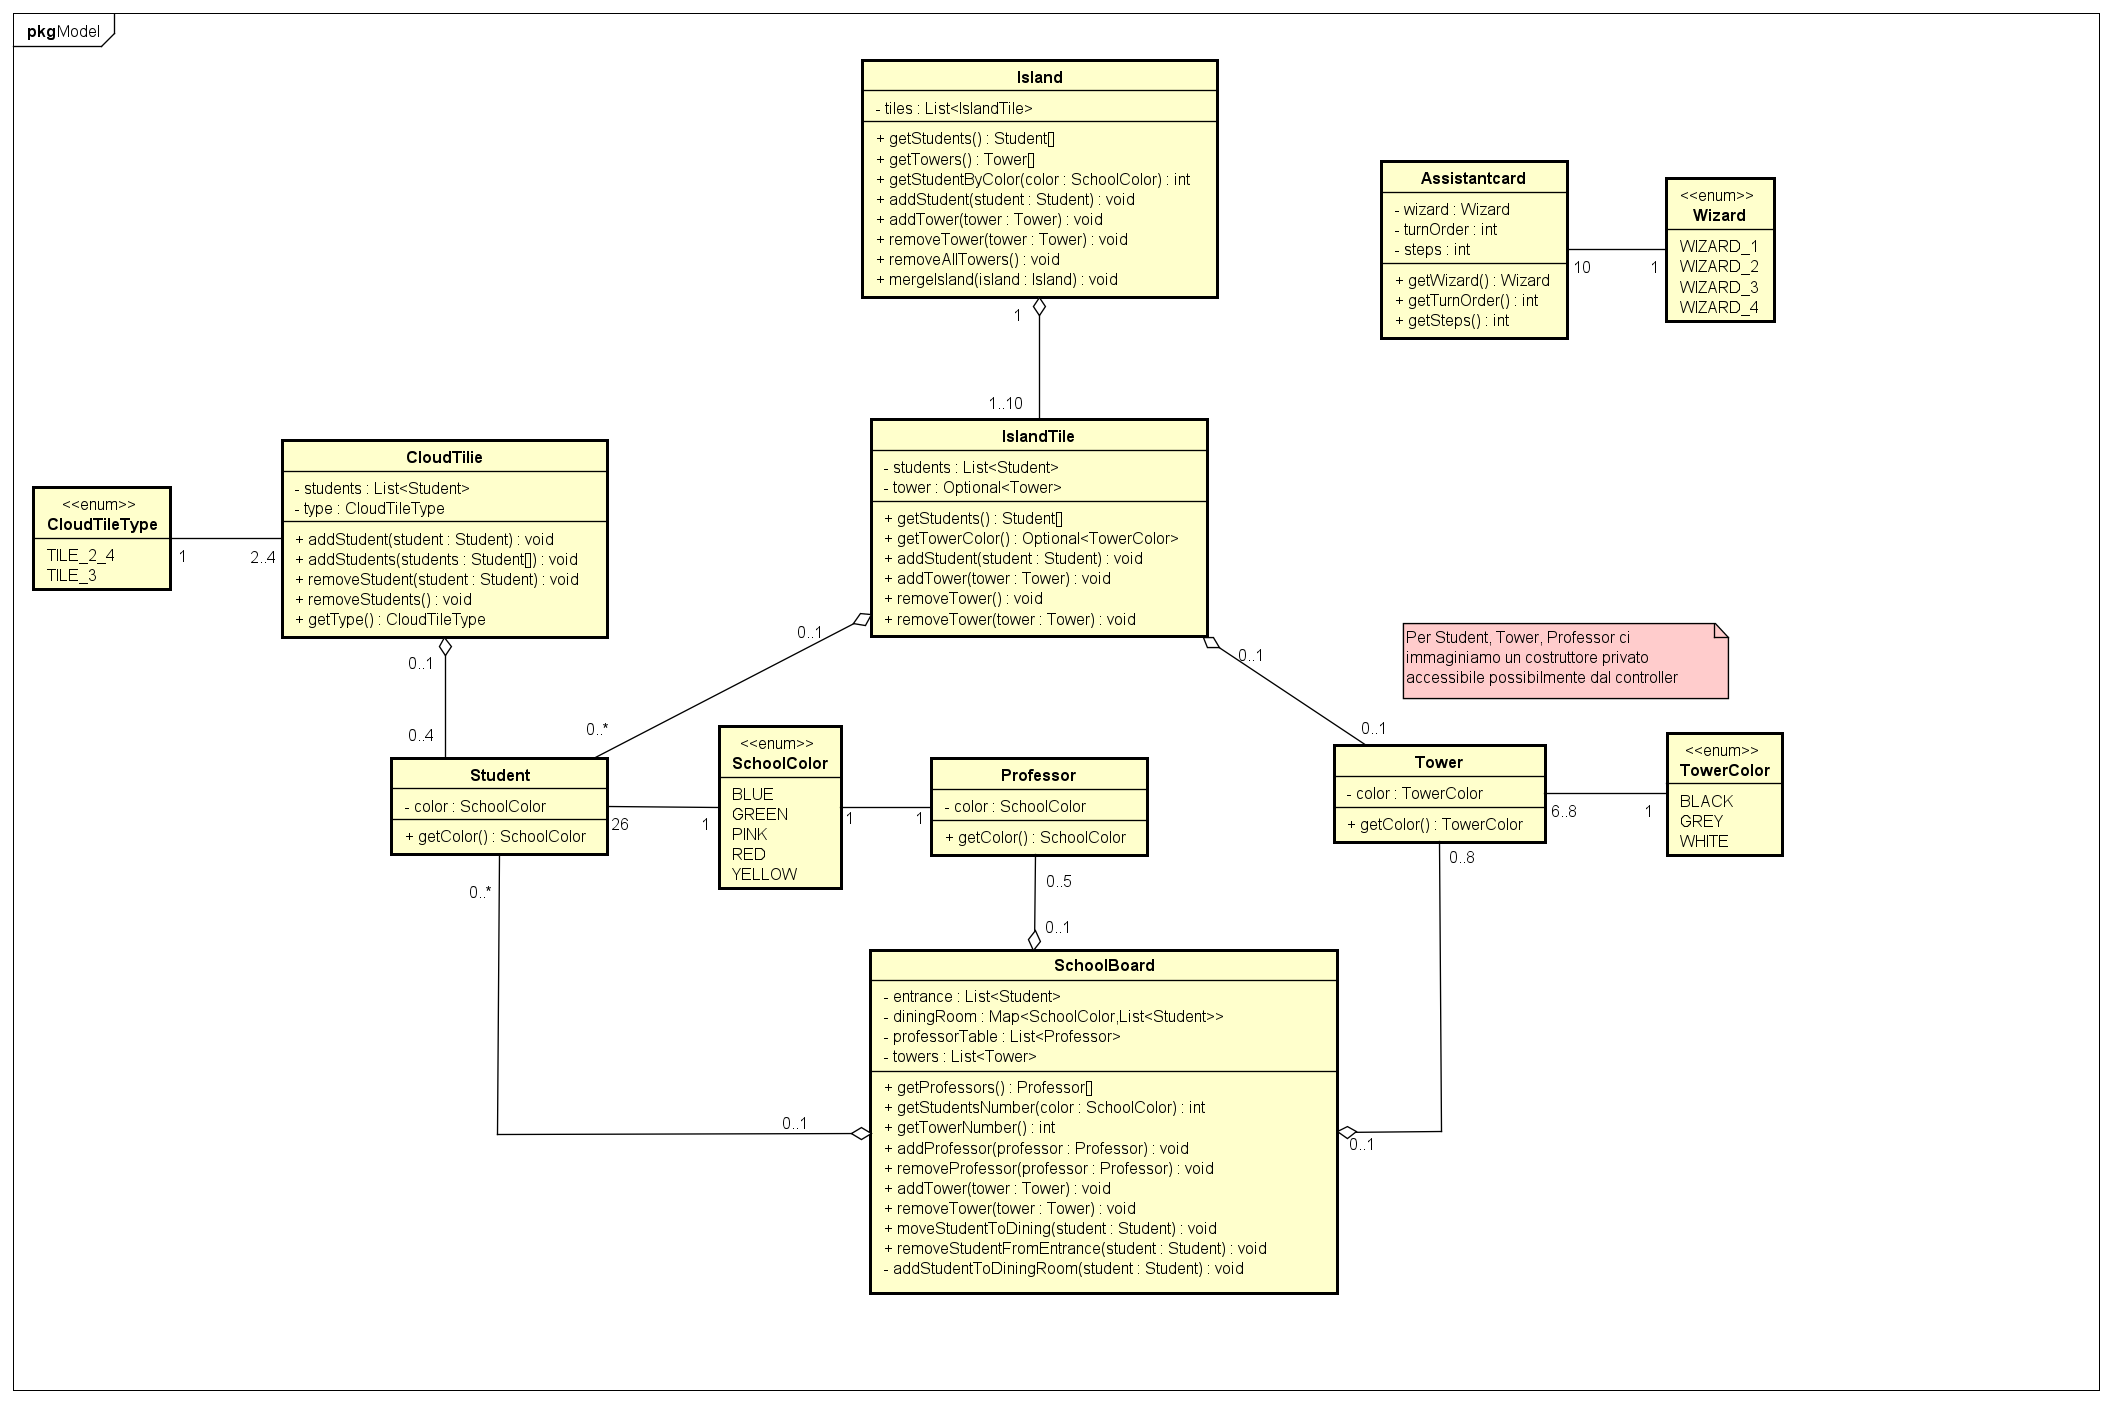
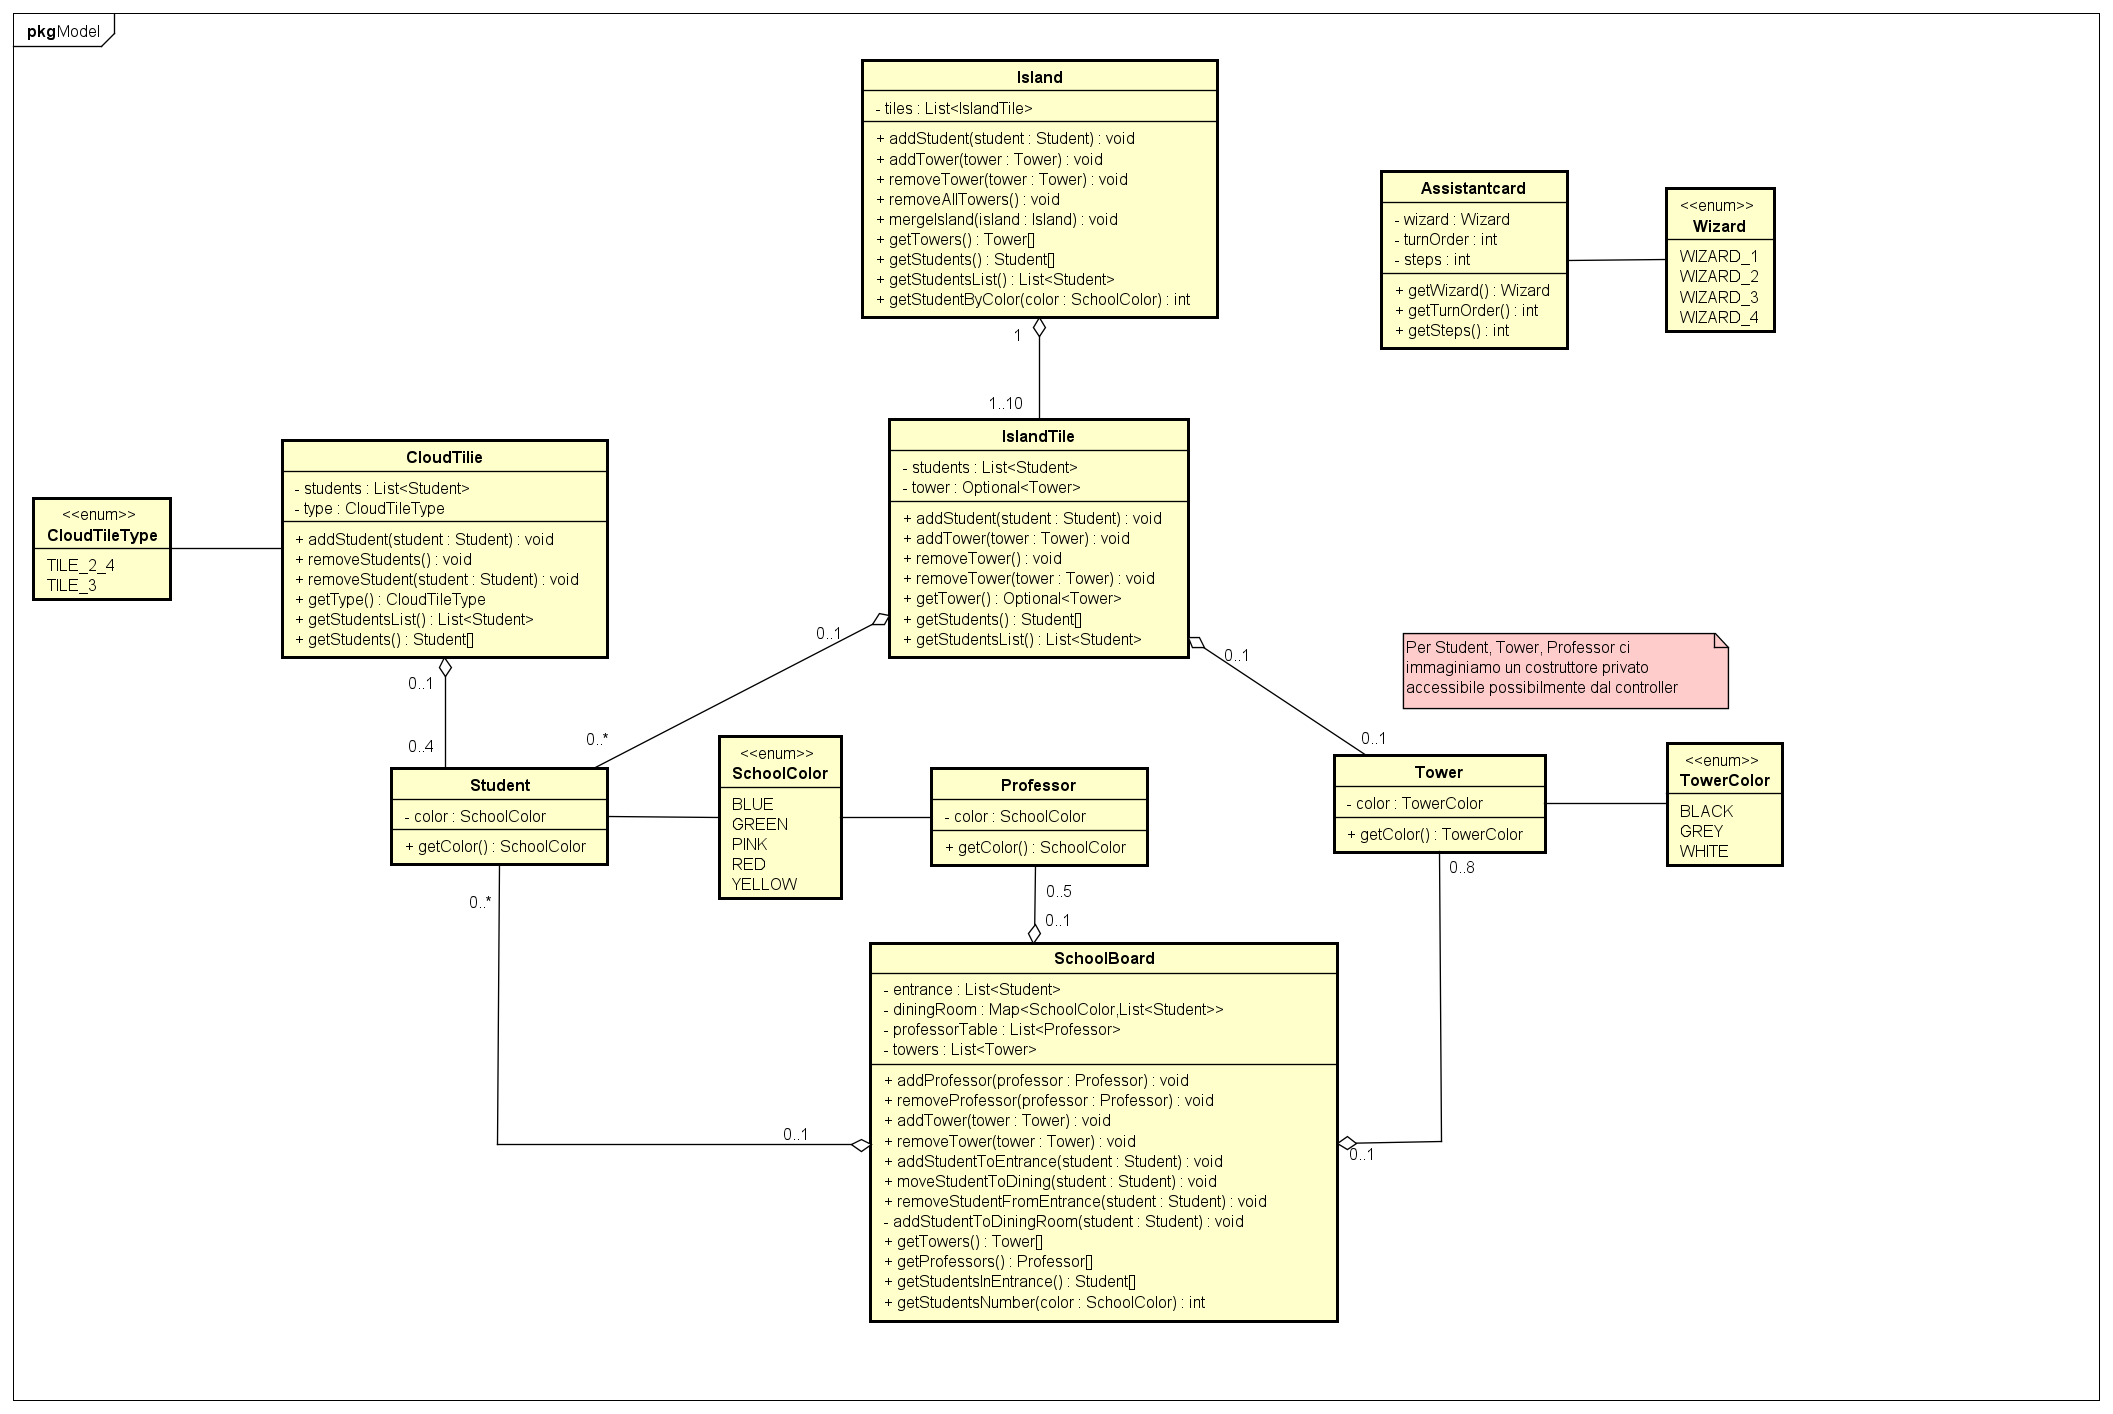
UML update and some little fixes

diff --git a/src/main/java/it/polimi/ingsw/model/IslandTile.java b/src/main/java/it/polimi/ingsw/model/IslandTile.java
@@ -6,7 +6,7 @@ import java.util.Optional;
 
 /**
  * This class represents the physical island tile displayed in the game.
- * It is differs from the island because the last one can actually be the
+ * It differs from the island because the last one can actually be the
  * composition of more tiles.
  */
 public class IslandTile
@@ -76,7 +76,7 @@ public class IslandTile
     public void removeTower(Tower tower)
     {
         //Delete the tower only if they are the same object
-        if(this.tower.get().equals(tower))
+        if(this.tower.isPresent() && this.tower.get().equals(tower))
         {
             this.tower = Optional.empty();
         }
@@ -94,13 +94,11 @@ public class IslandTile
         return result;
     }
 
-    //TODO add to the UML and delete this TODO
     public List<Student> getStudentsList()
     {
         return new ArrayList<Student>(students);
     }
 
-    //TODO change in UML the return type
     public Optional<Tower> getTower()
     {
         return tower;

diff --git a/src/main/java/it/polimi/ingsw/model/CloudTile.java b/src/main/java/it/polimi/ingsw/model/CloudTile.java
@@ -10,7 +10,7 @@ import java.util.List;
 public class CloudTile
 {
     /**
-     * List of students discs on the tile
+     * List of student discs on the tile
      */
     private List<Student> students;
 
@@ -46,8 +46,6 @@ public class CloudTile
         }
     }
 
-    //TODO DELETE THE addStudents method from CloudTile (it is not useful because addStudent alone is plenty)
-
     /**
      * Method to remove a specific student from the cloud tile
      * @param student The student that has to be removed
@@ -74,10 +72,8 @@ public class CloudTile
      */
     public CloudTileType getType() { return type; }
 
-    //TODO ADD THIS METHOD TO THE UML
     public List<Student> getStudentsList() { return new ArrayList<Student>(students); }
 
-    //TODO ADD THIS METHOD TO THE UML
     public Student[] getStudents()
     {
         //Create an intermediate list

diff --git a/src/main/java/it/polimi/ingsw/model/SchoolBoard.java b/src/main/java/it/polimi/ingsw/model/SchoolBoard.java
@@ -116,7 +116,6 @@ public class SchoolBoard
 
     /**
      * Adds the student in the entrance
-     * TODO ADD THIS METHOD TO UML
      * @param student The student to be added
      */
     public void addStudentToEntrance(Student student)
@@ -191,7 +190,6 @@ public class SchoolBoard
         return result;
     }
 
-    //TODO ADD THIS METHOD IN UML
     public Student[] getStudentsInEntrance()
     {
         //Create the result array
@@ -203,7 +201,6 @@ public class SchoolBoard
         return result;
     }
 
-    //TODO MODIFY THE UML
     public Tower[] getTowers()
     {
         //Create the result array
@@ -215,7 +212,7 @@ public class SchoolBoard
         return result;
     }
 
-    public int getMaxStudentsNumber(SchoolColor color)
+    public int getStudentsNumber(SchoolColor color)
     {
         return diningRoom.get(color).size();
     }

diff --git a/src/main/java/it/polimi/ingsw/model/Professor.java b/src/main/java/it/polimi/ingsw/model/Professor.java
@@ -8,13 +8,13 @@ package it.polimi.ingsw.model;
 public class Professor
 {
     /**
-     * The disc color (enum)
+     * The pawn color (enum)
      */
     private SchoolColor color;
 
     /**
      * Constructor
-     * @param color the disc color
+     * @param color the pawn color
      */
     public Professor(SchoolColor color)
     {
@@ -22,8 +22,8 @@ public class Professor
     }
 
     /**
-     * Disc color getter
-     * @return The SchoolColor of the disc
+     * Pawn color getter
+     * @return The SchoolColor of the pawn
      */
     public SchoolColor getColor() { return color; }
 }

diff --git a/src/main/java/it/polimi/ingsw/model/Tower.java b/src/main/java/it/polimi/ingsw/model/Tower.java
@@ -1,7 +1,7 @@
 package it.polimi.ingsw.model;
 
 /**
- * This class represents the tower. Each player/team has 6 towers in total
+ * This class represents the tower. Each player/team has 6 or 8 towers in total
  * and the amount of the "island positioned" ones determines the winner of the match.
  */
 public class Tower

diff --git a/src/main/java/it/polimi/ingsw/model/Island.java b/src/main/java/it/polimi/ingsw/model/Island.java
@@ -123,7 +123,6 @@ public class Island
      * Getters
      * TODO CHECK THE FUNCTIONAL
      */
-    //TODO ADD THIS METHOD TO THE UML
     public List<Student> getStudentsList()
     {
         //Create the result list
